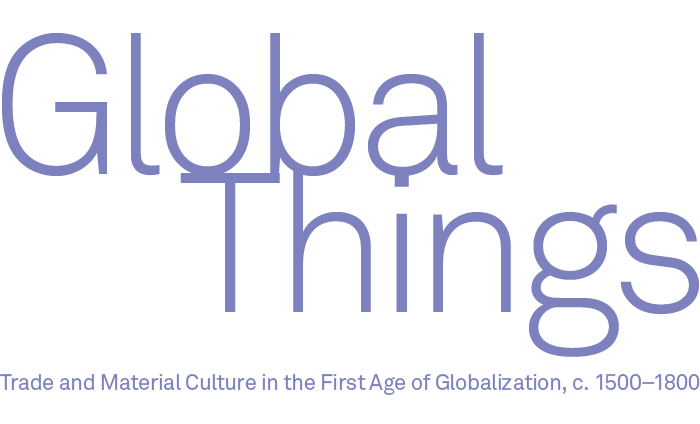
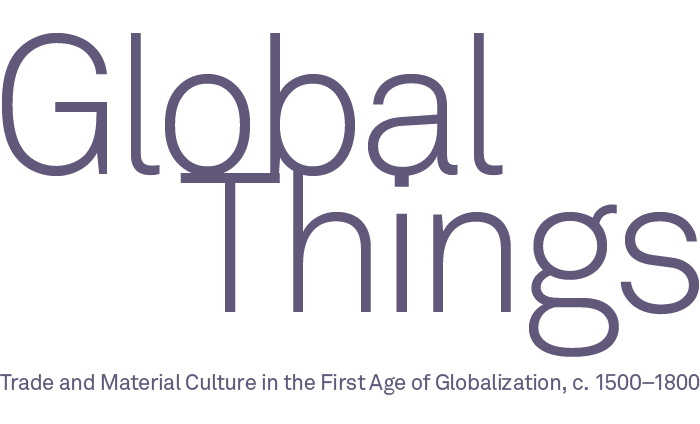
updated colors

Changed region(s): [[0.18, 0.0613, 1.0, 0.8585], [0.0, 0.8585, 1.0, 0.9198], [0.0, 0.0613, 0.15, 0.4292]]

diff --git a/AP/AP1516/AP_riello/AP_riello.html b/AP/AP1516/AP_riello/AP_riello.html
@@ -5,8 +5,8 @@
         <title>Global Things: Trade and Material Culture in the First Age of Globalization, c. 1500&ndash;1800</title>
         <style type="text/css">
         body {margin: 0; padding: 0; min-width: 100%!important; color:#333;}
-        a {color:#7d81be;}
-        .colorText{color:#7d81be;}
+        a {color:#62587A;}
+        .colorText{color:#62587A;}
         img {display:block;}
         a img {border:none;}
         .content {width: 740px; padding:20px; font-family: Arial, sans-serif; font-size:13px;}
